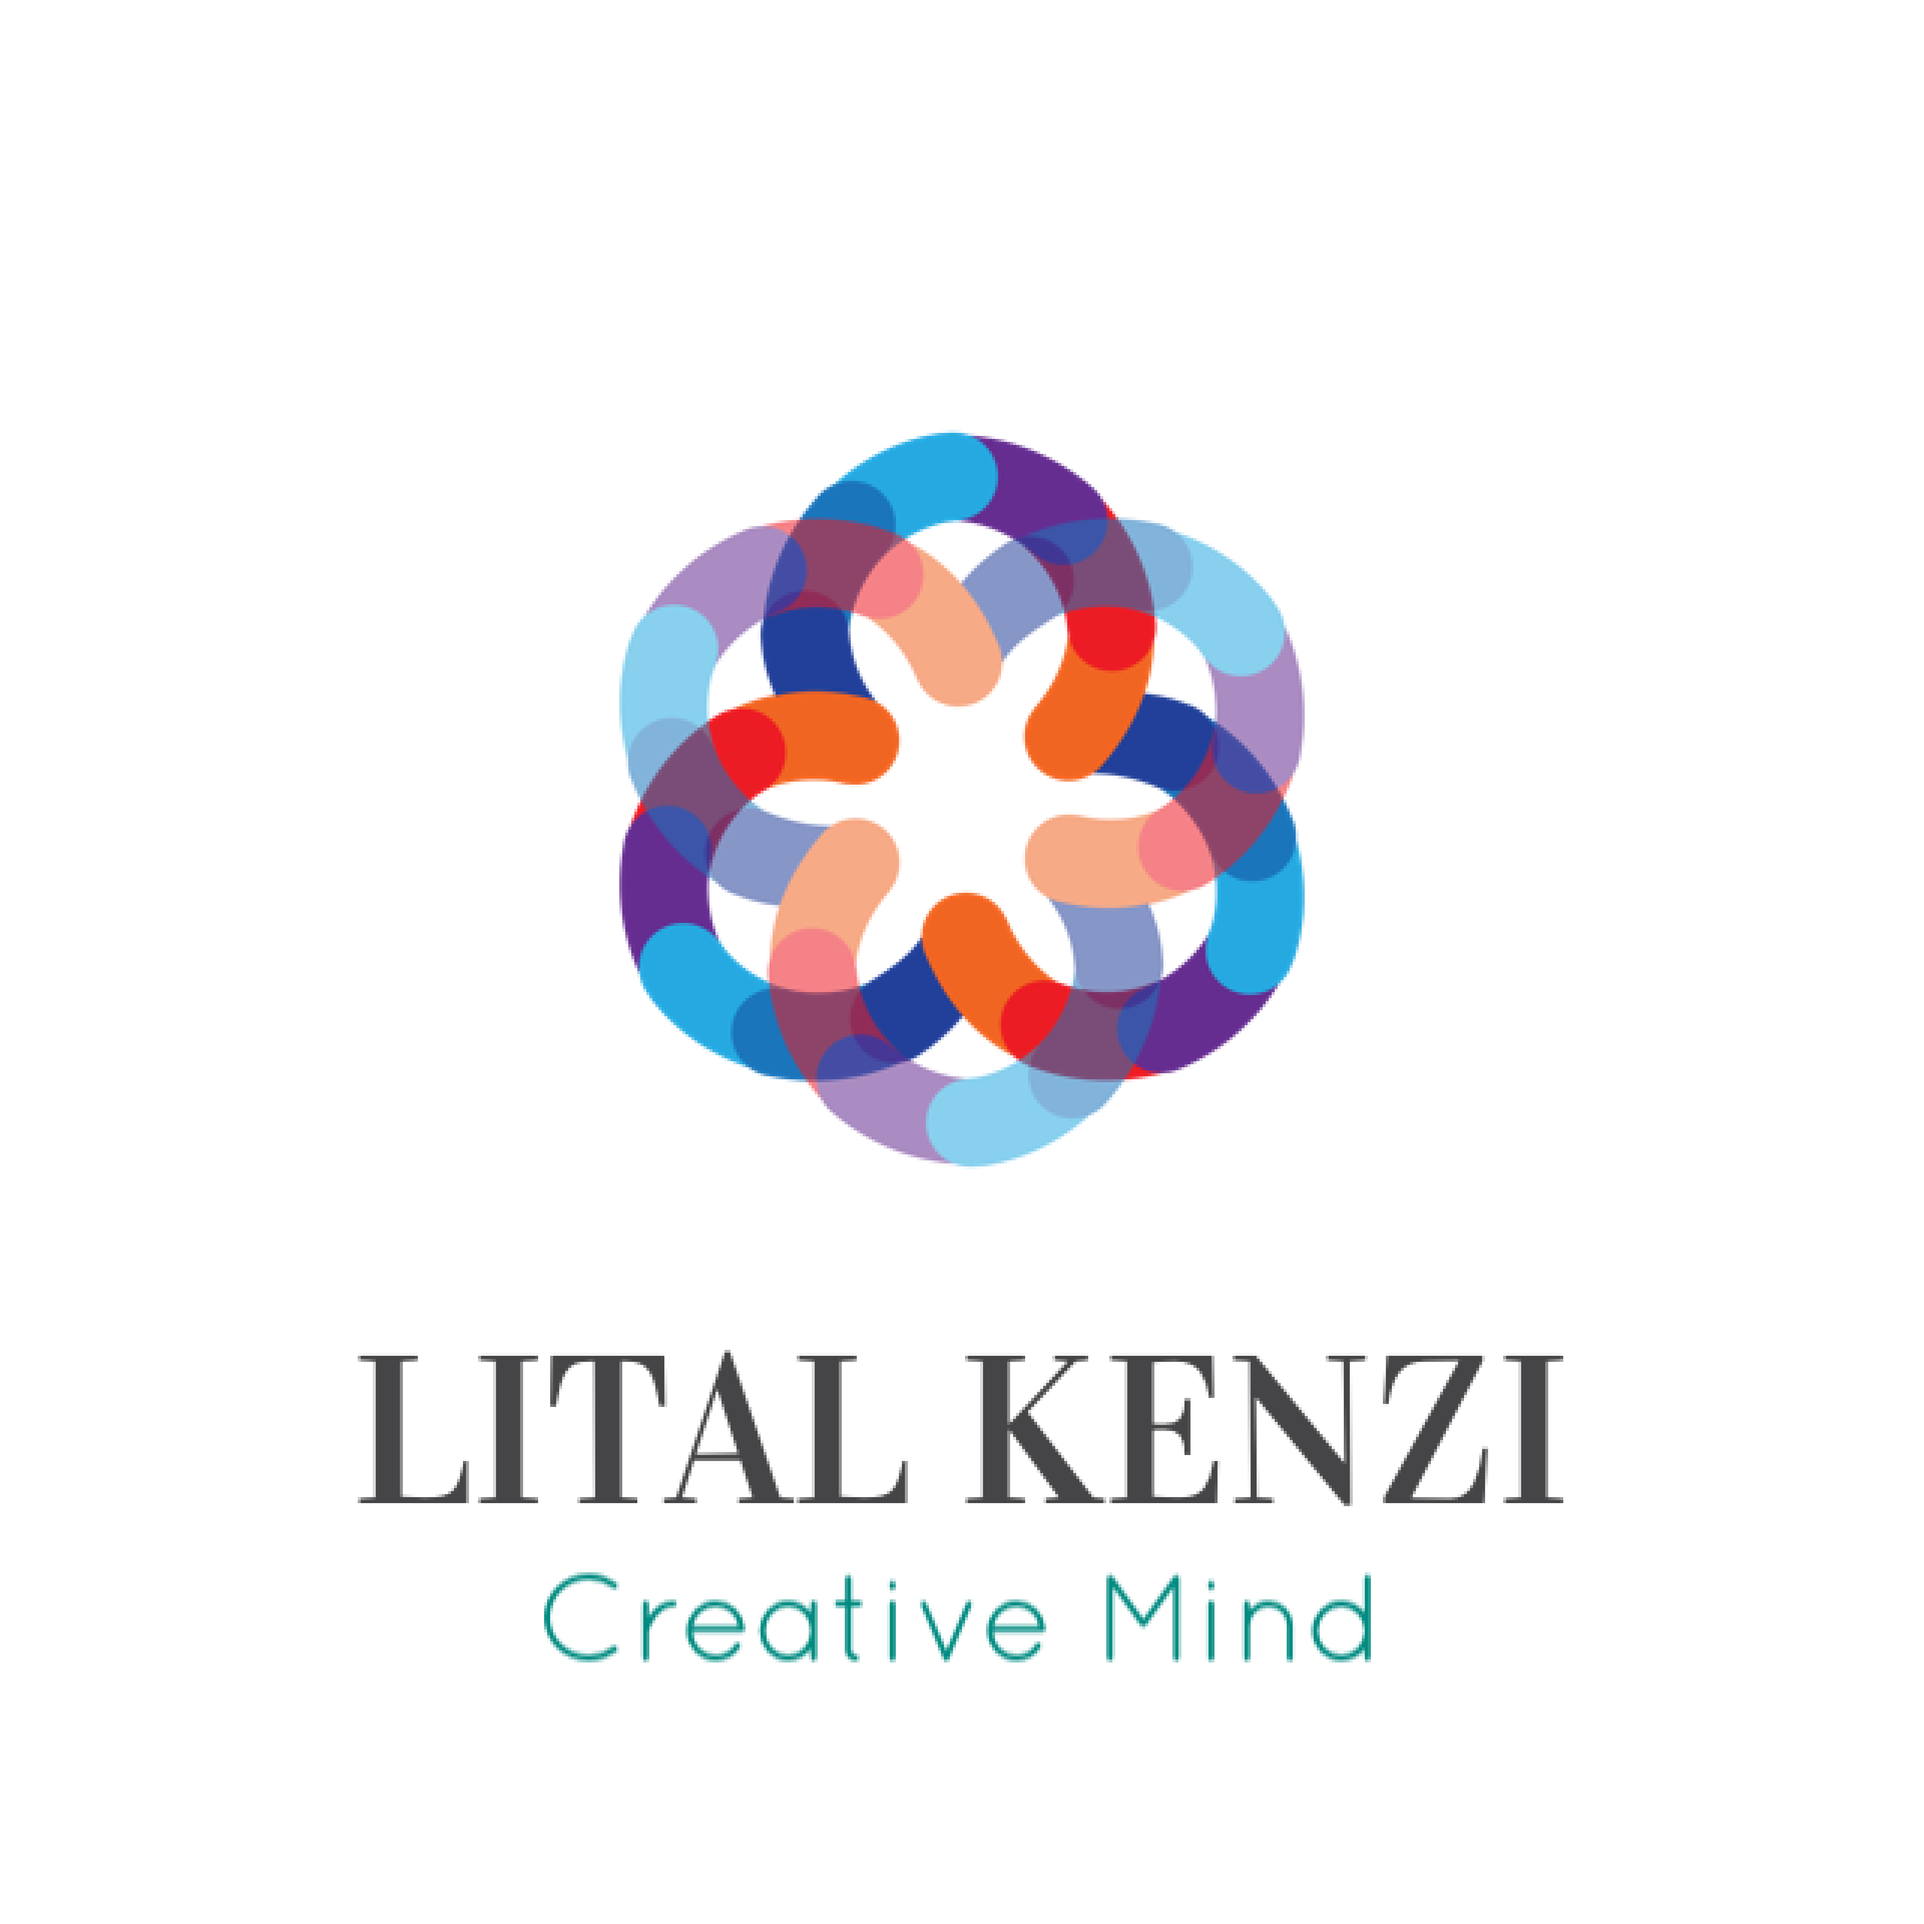
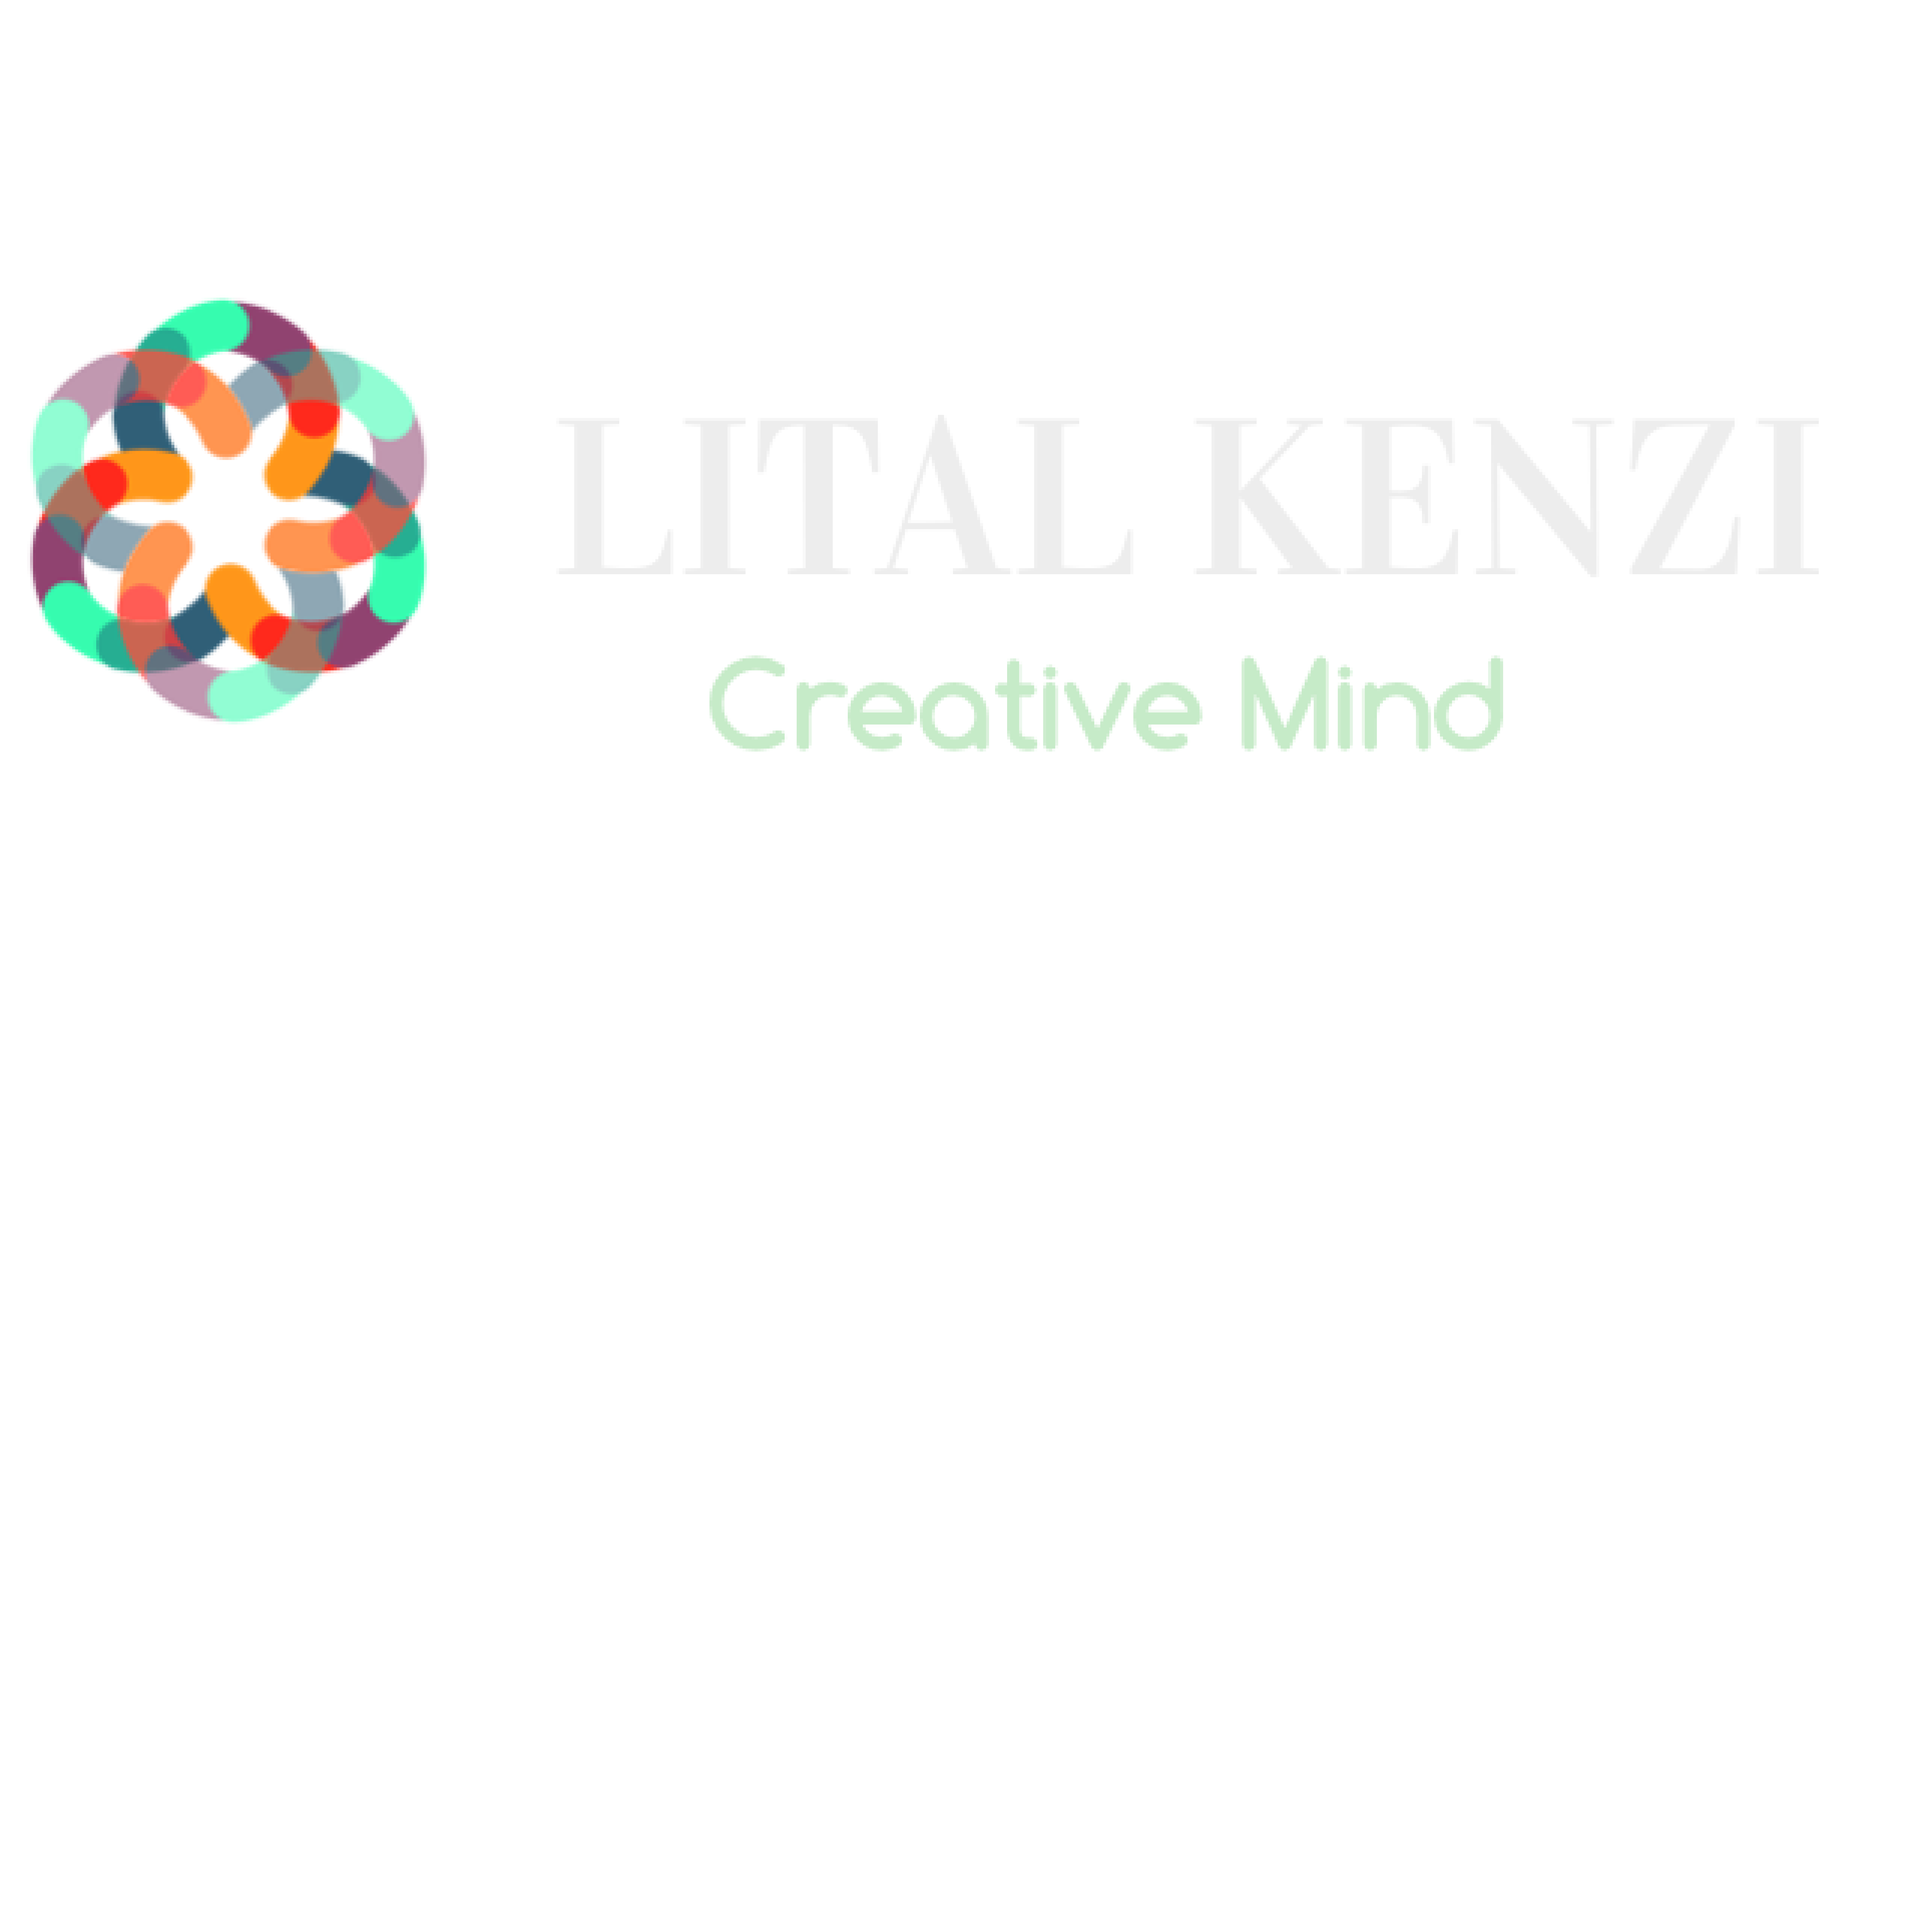
changes with John

diff --git a/unit_6/css/style.css b/unit_6/css/style.css
@@ -1,3 +1,6 @@
+@import url(https://fonts.googleapis.com/css?family=Droid+Sans);
+@import url(https://fonts.googleapis.com/css?family=Open+Sans);
+@import url(https://fonts.googleapis.com/css?family=Merriweather:300);
 * { margin:0; padding:0; box-sizing:border-box; }
 
 body {
@@ -6,11 +9,14 @@ body {
     background-size: cover;
     background-position: bottom;
     background-attachment: fixed;
-    color: #40444;
+    color: rgba(0,0,0,.87);
+    font-family: 'Merriweather', serif;
+    font-weight:300;
 }
 
 header img{
     width: 200px;
+    padding-left: 0.8em;
     display: block;
     float:left;
 }
@@ -28,51 +34,54 @@ nav a {
 }
 
 section#splash {
+    font-style: normal;
     background: #222;
-    height: 95vh;
     height: 85vh;
     position:relative;
     text-align: center;
     z-index: -1;
 }
+
 section#splash .scroll {
 	position:absolute;
-	bottom:4em;
+	bottom:2em;
 	left:50%;
 	transform:translateX(-50%);
 }
+
 section#splash p {
     color: rgb(230, 100, 90);
 }
 
-section #services {
+section#services {
     background-color: #EDEDED;
     padding: 5px 0;
     margin: 0 0 0 10px;
 }
 
-section #about {
+section#about {
     text-align: left;
+    background: purple;
 }
-section #contact {
+
+section#contact {
     padding: 1em;
 }
 
 h1 {
-    padding-top: 10em;
+    padding-top: 15em;
     padding-bottom: 0px;
     padding-left: 1.2em;
-    font-size: 26px;
+    font-size: 1.25em;
     font-style: normal;
     font-variant: normal;
     font-weight: normal;
     color: rgb(156,219,159);
-    line-height: 1;
+    line-height: 1.2;
 }
 
 h1 span {
     display:block;
-    line-height: 1.2em;
 }
 
 h2 {
@@ -81,7 +90,7 @@ h2 {
 }
 
 h3 {
-    font-family: "Open Sans";
+    font-family: 'Open Sans', sans-serif;
     font-size:2em;
     font-style: normal;
     font-variant: normal;
@@ -109,13 +118,13 @@ hr {
 }
 
 .gray {
-    font-family: "Open Sans";
-    font-size: 71px;
+    font-family: 'Open Sans', sans-serif;
+    font-size: 3.5em;
     font-style: normal;
     font-variant: normal;
     font-weight: normal;
-    letter-spacing: 11px;
-    color: #595457;
+    letter-spacing: 12px;
+    color: #EDEDED;
 }
 
 .two-columns {
@@ -144,11 +153,11 @@ hr {
     float: left;
 }
 
-
 #headshot {
     display: block;
     margin: 30px auto;
 }
+
 .clearfix:after {
     visibility: hidden;
     display: block;
@@ -156,4 +165,8 @@ hr {
     content: "services";
     clear: both;
     height: 0;
+}
+
+footer {
+    padding: 2em 5em;
 }

diff --git a/unit_6/index.html b/unit_6/index.html
@@ -1,6 +1,7 @@
 <!DOCTYPE html>
 <html>
 <head>
+	<meta charset="utf-8">
 	<link rel="stylesheet" type="text/css" href="css/style.css">
 	<title>Lital Kenzi Portfolio</title>
 </head>
@@ -19,7 +20,7 @@
 		<span class="gray">CREATING</span>
 		<span class="mint">everything marketing</span></h1>
 		<hr>
-		<p>I'm a Visual Designer & Front End Developer Based in Washington, DC.</p>
+		<p>I'm a Visual Designer &amp; Front End Developer Based in Washington, DC.</p>
 		<a href="#services" class="scroll">V</a>
 	</section>
 
@@ -46,14 +47,14 @@
 		<div class='image-wrapper'>
 		<img src="images/webmockup.jpg">
 		</div>
-			<h3>CODING & WEB DESIGN</h3>
+			<h3>CODING &amp; WEB DESIGN</h3>
 			<p>I'm a web designer who deeply enjoys not just the art and science of coding but how to maximize its application to drive results and success however it is defined. Inspect my elements, if you wish.</p>
 		</section>
 		<section class="two-columns">
 		<div class='image-wrapper'>
 		<img src="images/sem&seo.JPG">
 		</div>
-			<h3>SEM & SEO</h3>
+			<h3>SEM &amp; SEO</h3>
 			<p>Measuring the effectiveness of your marketing investment and initiatives is a real challenge for all businesses and organizations whether you’re a multi-million organization, or a new startup. This is my playground. From devising strategies to improve the ranking of your webpages and root domain, to targeting and enhancing your SEM campaigns knowing your return on marketing investment is key for your business growth..</p>
 
 		</section>
@@ -64,10 +65,13 @@
 		<p>My passion is pixel-perfect, intuitive design. I'm versatile, creative, enthusiastic about what I do, and eager to tackle new and complex challenges. I have a diverse background in print and web design, improving SEO ranking, web analytics, branding and re-branding, as well as experience in operations, product development and project management. I have worked on the extreme spectrum of work environments from a tech startup to an interior design firm, to an education technology company to a large corporate in the insurance industry.</p> 
 		<p>When not marketing bigger and better things, I am an optimist, an explorer, and a career woman looking to take on the world one challenge at a time.</p>
 	</section>
+	
+</body>
+<footer>
 	<section id="contact">
 		<a href= "mailto:litalkenzi.gmail.com">Contact me</a>
 	</section>
-</body>
+</footer>
 </html>
 
 
